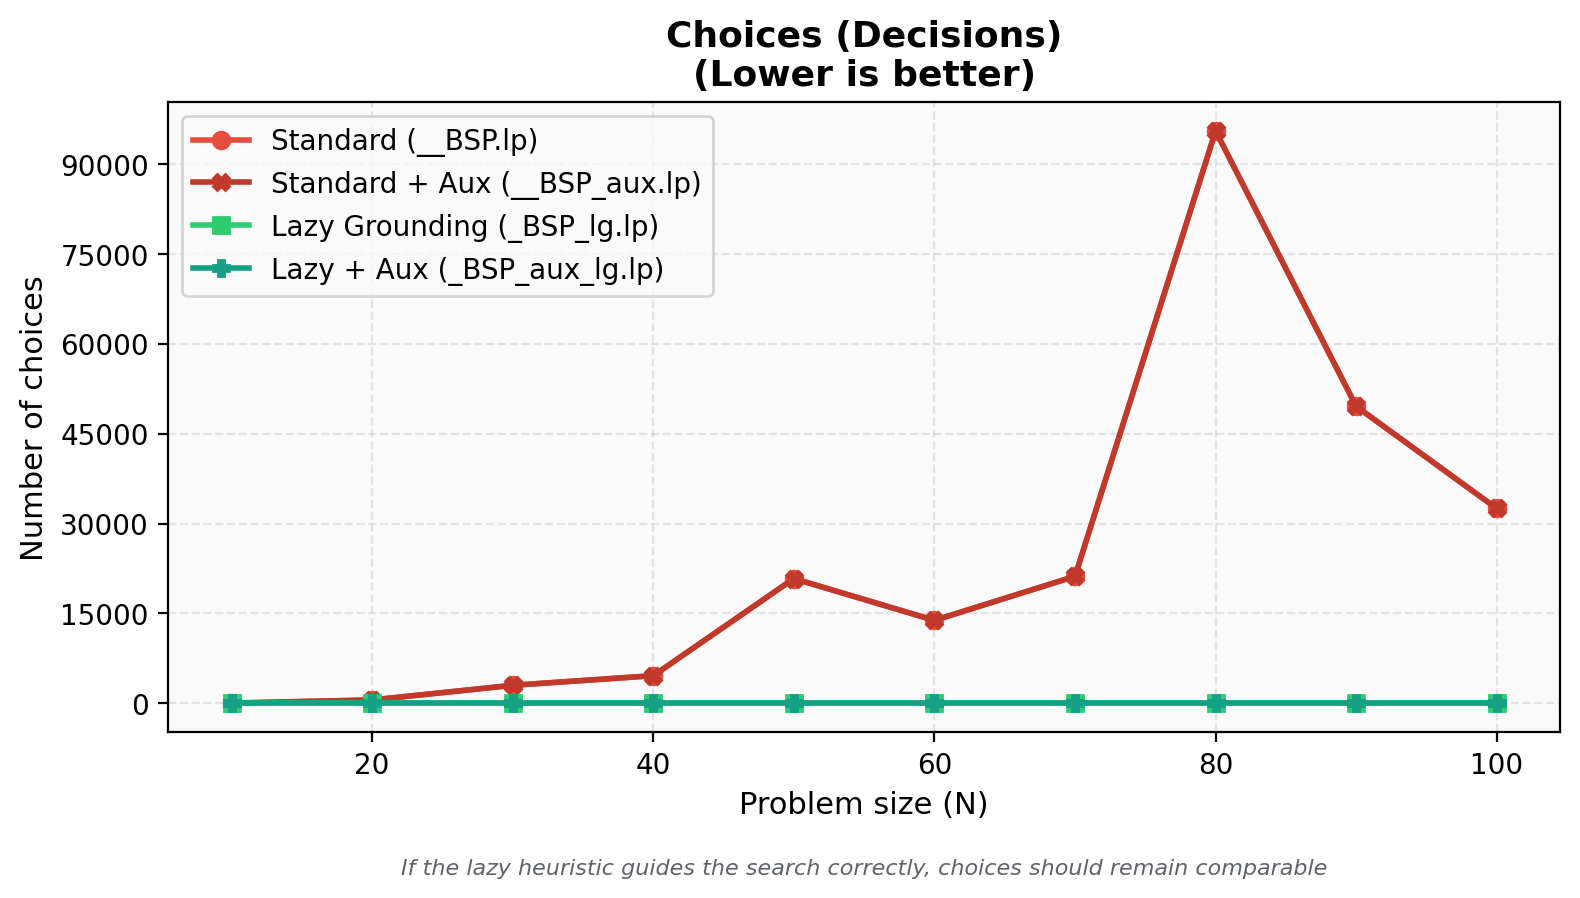
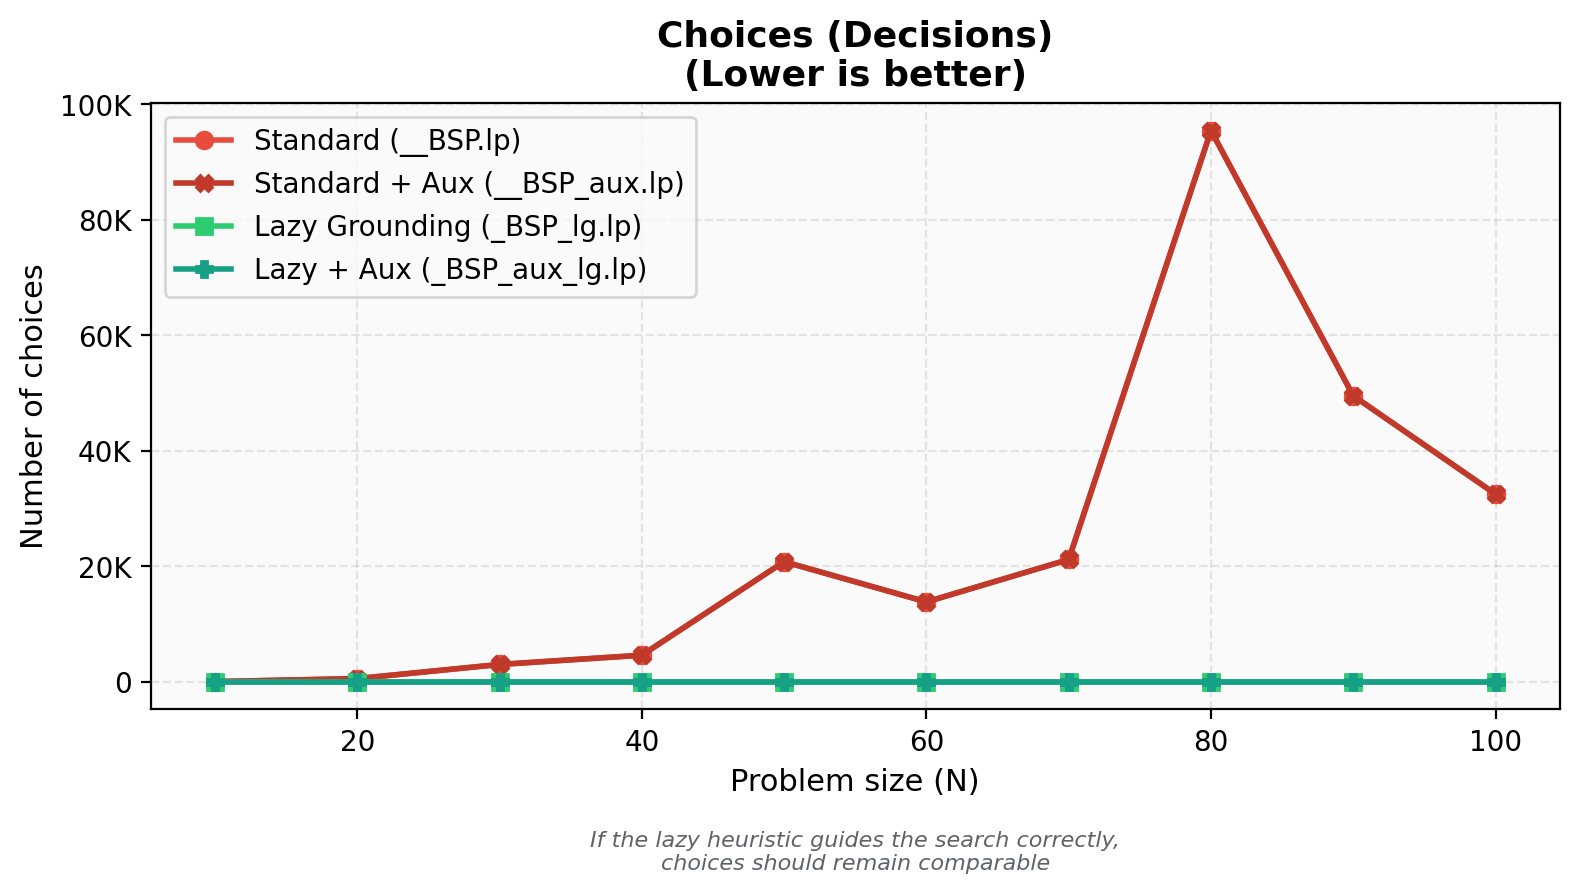
bene

diff --git a/test_folder/gen_graphs.py b/test_folder/gen_graphs.py
@@ -109,7 +109,7 @@ PLOT_CONFIGS = [
         "metric": "rules",
         "title": "Ground Rules",
         "ylabel": "Number of rules",
-        "description": "Size of the grounded program.\nLazy grounding should generate fewer rules",
+        "description": "Solver Rules statistic.\nLazy templates appear as facts/atoms, see Ground Facts and Variables.",
         "filename": "rules_comparison.png",
     },
     {
@@ -306,8 +306,12 @@ SEPARATOR_COLOR = "#D6D6D6"
 
 def _add_axis_caption(ax, description: str, *, y: float, width: int, fontsize: int):
     """Place the metric description below the plot area as a caption."""
-    caption = " ".join(description.split())
-    wrapped = textwrap.fill(caption, width=width)
+    lines = []
+    for line in description.splitlines():
+        line = " ".join(line.split())
+        if line:
+            lines.append(textwrap.fill(line, width=width))
+    wrapped = "\n".join(lines)
     ax.text(
         0.5, y, wrapped,
         transform=ax.transAxes,
@@ -318,6 +322,36 @@ def _add_axis_caption(ax, description: str, *, y: float, width: int, fontsize: i
         fontstyle="italic",
         clip_on=False,
     )
+
+
+def _format_compact_number(value, _pos=None):
+    """Format large axis ticks without scientific-offset notation."""
+    abs_value = abs(value)
+    for suffix, scale in (("B", 1_000_000_000), ("M", 1_000_000), ("K", 1_000)):
+        if abs_value >= scale:
+            scaled = value / scale
+            if abs(scaled) >= 100 or scaled.is_integer():
+                return f"{scaled:.0f}{suffix}"
+            if abs(scaled) >= 10:
+                return f"{scaled:.1f}{suffix}"
+            return f"{scaled:.2f}".rstrip("0").rstrip(".") + suffix
+    if abs_value >= 1:
+        return f"{value:.0f}"
+    if value == 0:
+        return "0"
+    return f"{value:g}"
+
+
+def _apply_y_axis_format(ax, metric: str):
+    """Keep count-like axes readable and consistent across charts."""
+    if metric not in INTEGER_METRICS:
+        return
+
+    from matplotlib.ticker import FuncFormatter, MaxNLocator
+
+    ax.yaxis.set_major_locator(MaxNLocator(nbins=6, integer=True))
+    ax.yaxis.set_major_formatter(FuncFormatter(_format_compact_number))
+    ax.yaxis.offsetText.set_visible(False)
 
 
 def _add_subplot_separators(fig, axes, n_plots: int):
@@ -403,7 +437,6 @@ def generate_graphs(stats: dict, graphs_dir: str, theme: dict, title_suffix: str
         matplotlib.use("Agg")
         import matplotlib.pyplot as plt
         import numpy as np
-        from matplotlib.ticker import MaxNLocator
     except ImportError:
         print("Matplotlib is not installed. To enable plotting: pip install matplotlib numpy")
         sys.exit(1)
@@ -473,8 +506,7 @@ def generate_graphs(stats: dict, graphs_dir: str, theme: dict, title_suffix: str
         if has_data:
             ax.legend(loc="upper left")
 
-        if metric in INTEGER_METRICS:
-            ax.yaxis.set_major_locator(MaxNLocator(integer=True))
+        _apply_y_axis_format(ax, metric)
 
         _add_axis_caption(ax, config["description"], y=-0.27, width=64, fontsize=7)
 
@@ -537,7 +569,6 @@ def _generate_single_chart(stats, graphs_dir, metric, title, ylabel, description
     try:
         import matplotlib.pyplot as plt
         import numpy as np
-        from matplotlib.ticker import MaxNLocator
     except ImportError:
         return
 
@@ -579,8 +610,7 @@ def _generate_single_chart(stats, graphs_dir, metric, title, ylabel, description
         ax.text(0.5, 0.5, "No data", transform=ax.transAxes,
                 ha="center", va="center", fontsize=13, color="#AAA")
     ax.grid(True, alpha=0.3, linestyle="--")
-    if metric in INTEGER_METRICS:
-        ax.yaxis.set_major_locator(MaxNLocator(integer=True))
+    _apply_y_axis_format(ax, metric)
 
     _add_axis_caption(ax, description, y=-0.20, width=88, fontsize=8)
 
